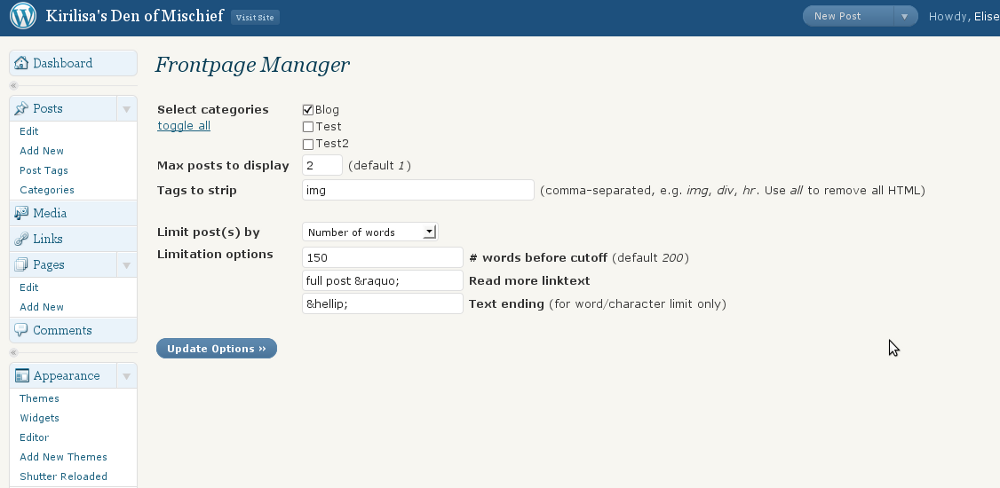
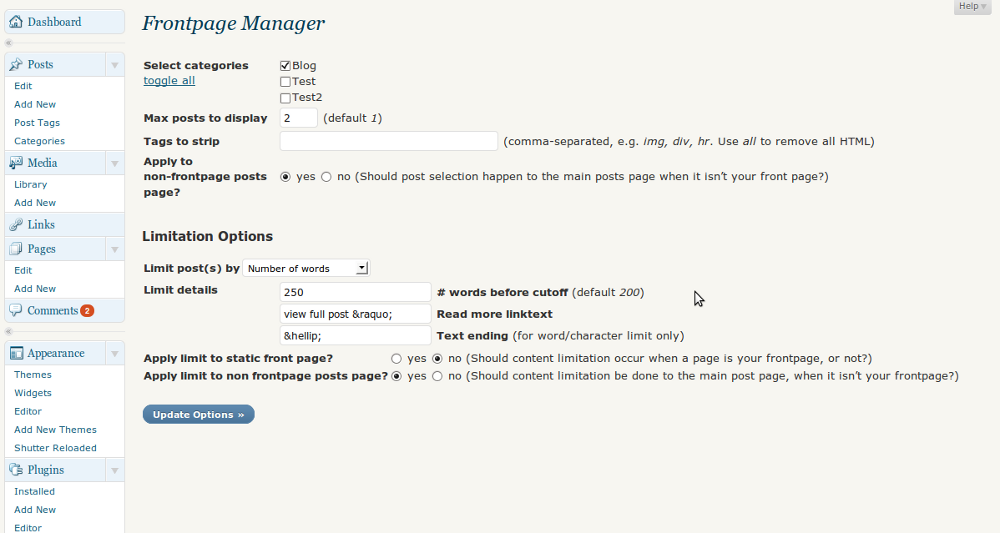
Upgrade to version 1.1
git-svn-id: https://plugins.svn.wordpress.org/frontpage-manager/trunk@240787 b8457f37-d9ea-0310-8a92-e5e31aec5664

diff --git a/fp-manager.php b/fp-manager.php
@@ -4,7 +4,7 @@
    Plugin URI: http://kirilisa.com/projects/frontpage-manager/
    Description: Frontpage manager lets you customize how frontpage posts appear in a number 
    of ways: limiting by category, number of posts, number of words/characters/paragraphs.   
-   Version: 1.0
+   Version: 1.1
    Author: Elise Bosse
    Author URI: http://kirilisa.com
 
@@ -40,6 +40,9 @@ if (!class_exists("FPManager")) {
       add_option("fpm_post_linktext", 'view full post &raquo;');
       add_option("fpm_post_ending", '');
       add_option("fpm_striptags", '');      
+      add_option("fpm_apply_nonfp", 1);      
+      add_option("fpm_static_limit", 0);      
+      add_option("fpm_nonfp_limit", 1);      
     }
 
     function deactivate() {
@@ -51,6 +54,9 @@ if (!class_exists("FPManager")) {
       delete_option("fpm_post_linktext");
       delete_option("fpm_post_ending");
       delete_option("fpm_striptags");      
+      delete_option("fpm_apply_nonfp");      
+      delete_option("fpm_static_limit");      
+      delete_option("fpm_nonfp_limit");      
     }
 
     function get_all_categories() {
@@ -78,7 +84,10 @@ if (!class_exists("FPManager")) {
 	$ending = utf8_encode(trim($_POST['fpm_post_ending']));
 	$linktext = utf8_encode(trim($_POST['fpm_post_linktext']));	
 	$striptags = utf8_encode(trim(strtolower($_POST['fpm_striptags'])));
-        
+	$apply_nonfp = intval(trim($_POST['fpm_apply_nonfp']));        
+	$static_limit = intval(trim($_POST['fpm_static_limit']));        
+	$nonfp_limit = intval(trim($_POST['fpm_nonfp_limit']));        
+
 	// default number
 	if ($number == '') {
 	  if ($cuttype == 'paragraph' || $cuttype == 'none') $number = '1';
@@ -95,22 +104,31 @@ if (!class_exists("FPManager")) {
 	$numposts = $numposts < 1 ? 1 : $numposts;
 
 	// make categories storable
-	foreach ($categories as $cat) {
-	  $cats .= trim($cat).",";
+	if (isset($categories) && !empty($categories)) {
+	  foreach ($categories as $cat) {
+	    $cats .= trim($cat).",";
+	  }
+	  $cats = trim($cats, ",");
+	  
+	  // store categories
+	  update_option("fpm_post_category", $cats);	
+	  
+	  // updated message
+	  echo "<div id=\"message\" class=\"updated fade\"><p><strong>Frontpage Manager options updated.</strong></p></div>";
+	} else {
+	  echo "<div id=\"message\" class=\"updated fade\"><p><strong>You must select at least 1 category.</strong></p></div>";
 	}
-	$cats = trim($cats, ",");
 
 	// update data in database
-	update_option("fpm_post_category", $cats);	
 	update_option("fpm_post_cuttype", $cuttype);	
 	update_option("fpm_post_numposts", $numposts);
 	update_option("fpm_post_number", $number);
 	update_option("fpm_post_linktext", $linktext);
 	update_option("fpm_post_ending", $ending);
 	update_option("fpm_striptags", $striptags);
-	
-	// updated message
-	echo "<div id=\"message\" class=\"updated fade\"><p><strong>Frontpage Manager options updated.</strong></p></div>";
+	update_option("fpm_apply_nonfp", $apply_nonfp);
+	update_option("fpm_static_limit", $static_limit);
+	update_option("fpm_nonfp_limit", $nonfp_limit);
       }
       
       $cats = FPManager::get_all_categories();
@@ -119,82 +137,98 @@ if (!class_exists("FPManager")) {
     }
 
 
-    function display($content) {
-      if (!is_front_page() || get_option('show_on_front') != 'posts') return $content;
-
+    // limit the posts, if necessary
+    function display($content) {      
       $striptags = get_option('fpm_striptags');
       $cuttype = get_option('fpm_post_cuttype');
       $linktext = get_option('fpm_post_linktext');
       $ending = get_option('fpm_post_ending');
       $truncate = get_option('fpm_post_number');
+      $static_limit = get_option('fpm_static_limit');
+      $nonfp_limit = get_option('fpm_nonfp_limit');
       $readon = TRUE;
+      $type = get_option('show_on_front');
 
-      if ($cuttype == 'none') return $content;
+      if ($cuttype == 'none') return $content;  // no limitation required    
 
-      if ($striptags != '') {
-	// make sure tags to strip are clean
-	$striptags = str_replace(array('<',' ','>'), '', $striptags);
-	$tags = explode(',', $striptags);
+      // these situations require limiting
+      if (($type == 'posts' && is_front_page()) || 
+	  ($type == 'page' && is_front_page() && $static_limit) || 
+	  ($type == 'page' && is_home() && $nonfp_limit)) {
+      
+	//if (($fp_only && !is_front_page()) || (!$fp_only && !is_home()) || $cuttype == 'none') return $content;
+	//if (!is_front_page() || get_option('show_on_front') != 'posts') return $content;
+	//if ($cuttype == 'none') return $content;
 
-	// strip the tags
-	foreach ($tags as $tag) {	  
-	  if ($tag == 'all') $content = strip_tags($content, '<p>');
-	  else $content = preg_replace('/<\/?'.$tag.'( [^>]+)?>/', '', $content, -1, $cnt);
-	}
-      }      
+	if ($striptags != '') {
+	  // make sure tags to strip are clean
+	  $striptags = str_replace(array('<',' ','>'), '', $striptags);
+	  $tags = explode(',', $striptags);
 
-      switch($cuttype) {
-      case "word":	
-	$tmp = explode(' ', $content);       	
-	$length = count($tmp);
-	if ($length > $truncate) {
-	  $final = implode(' ', array_slice($tmp, 0, $truncate));
-	  $final = FPManager::fix_html($final, $ending);
-	} else {
-	  $final = $content;
-	  $readon = FALSE;
-	}
-	break;
-
-      case "letter":
-	$length = strlen($content);
-	if ($length > $truncate) {
-	  $final = FPManager::fix_html(substr($content, 0, $truncate), $ending);
-	} else {
-	  $final = $content;
-	  $readon = FALSE;
-	}
-	break;
-
-      case "paragraph":
-	$final = "";
-	$idx = 0;
-
-	$tmp = explode('</p>', $content);
-
-	// clean array of whitespace/null values
-	$tmp = array_values(array_filter(array_map("trim", $tmp)));
-
-	$length = count($tmp);
-	if ($length > $truncate) {
-	  while ($idx < $truncate) {
-	    $final .= $tmp[$idx]."</p>";
-	    $idx++;
+	  // strip the tags
+	  foreach ($tags as $tag) {	  
+	    if ($tag == 'all') $content = strip_tags($content, '<p>');
+	    else $content = preg_replace('/<\/?'.$tag.'( [^>]+)?>/', '', $content, -1, $cnt);
 	  }
-	} else {
-	  $final = $content;
-	  $readon = FALSE;
-	}
-	break;
-      }
-            
-      if ($readon) {
-	$final .= "\r\n".'<div class="fpm_readon"><a href="' . get_permalink() . '" rel="nofollow">';
-	$final .= utf8_encode($linktext) . "</a></div>\r\n";
-      }
+	}      
 
-      return $final;
+	switch($cuttype) {
+	case "word":	
+	  $tmp = explode(' ', $content);       	
+	  $length = count($tmp);
+	  if ($length > $truncate) {
+	    $final = implode(' ', array_slice($tmp, 0, $truncate));
+	    $final = FPManager::fix_html($final, $ending);
+	  } else {
+	    $final = $content;
+	    $readon = FALSE;
+	  }
+	  break;
+
+	case "letter":
+	  $length = strlen($content);
+	  if ($length > $truncate) {
+	    $final = FPManager::fix_html(substr($content, 0, $truncate), $ending);
+	  } else {
+	    $final = $content;
+	    $readon = FALSE;
+	  }
+	  break;
+
+	case "paragraph":
+	  $final = "";
+	  $idx = 0;
+
+	  $tmp = explode('</p>', $content);
+
+	  // clean array of whitespace/null values
+	  $tmp = array_values(array_filter(array_map("trim", $tmp)));
+
+	  $length = count($tmp);
+	  if ($length > $truncate) {
+	    while ($idx < $truncate) {
+	      $final .= $tmp[$idx]."</p>";
+	      $idx++;
+	    }
+	  } else {
+	    $final = $content;
+	    $readon = FALSE;
+	  }
+	  break;
+	}
+            
+	if ($readon) {
+	  $final .= "\r\n".'<div class="fpm_readon"><a href="' . get_permalink() . '" rel="nofollow">';
+	  $final .= utf8_encode($linktext) . "</a></div>\r\n";
+	}
+
+	return $final;
+      } 
+
+      return $content;
     }
+
+
 
     function trim_val($val) {
       //return trim($val);
@@ -242,17 +276,27 @@ if (!class_exists("FPManager")) {
       global $wp_query;
 
       $type = get_option('show_on_front');
-      //$category = get_option('fpm_post_category');
       $categories = get_option("fpm_post_category"); 
       $numposts = intval(get_option('fpm_post_numposts'));
-      
-      if (is_front_page() && $type == 'posts') {
+      $apply_nonfp = get_option('fpm_apply_nonfp');
+
+      // these situations require alteration
+      //if (is_front_page() && $type == 'posts') {
+      if (($type == 'posts' && is_front_page()) || 
+	  ($type == 'page' && is_home() && $apply_nonfp)) {
+            
 	// limit categories shown
 	if (preg_match('/^([1-9]{1}[0-9]*,?)+$/', $categories)) $wp_query->query_vars['cat'] = $categories;
-	//print_r($wp_query->query_vars['cat']); exit;
-	// limit number of posts showd
+
+	// limit number of posts shown
 	$wp_query->query_vars['showposts'] = $numposts;
       }
+    }
+
+    function set_title() {
+      global $wp_query;
+      $wp_query->query_vars['cat'] = "";
+      $wp_query->query_vars['category_in'] = Array();
     }
 
   }
@@ -265,8 +309,9 @@ if (class_exists("FPManager")) {
 
 // actions/filters
 if (isset($fpmanager)) {
-  add_filter('pre_get_posts', array('FPManager', 'alter_query'));
-  add_filter('the_content', array('FPManager', 'display'));
+  add_filter('pre_get_posts', array('FPManager', 'alter_query')); // deal with which posts to show
+  add_filter('the_content', array('FPManager', 'display')); // deal with how much of each post to show
+  add_action('get_header', array('FPManager', 'set_title')); // get rid of title category if set
 
   // administrative options
   add_action('admin_menu', array('FPManager', 'add_admin_page'));

diff --git a/admin_page.php b/admin_page.php
@@ -9,6 +9,18 @@ $input_number = get_option("fpm_post_number");
 $input_linktext = htmlspecialchars(get_option("fpm_post_linktext"));
 $input_ending = htmlspecialchars(get_option("fpm_post_ending"));
 $striptags = htmlspecialchars(get_option("fpm_striptags"));
+$apply_nonfp = htmlspecialchars(get_option("fpm_apply_nonfp"));
+$static_limit = htmlspecialchars(get_option("fpm_static_limit"));
+$nonfp_limit = htmlspecialchars(get_option("fpm_nonfp_limit"));
+
+$apply_nonfp_yes = $apply_nonfp == 1 ? 'checked ': '';
+$apply_nonfp_no = $apply_nonfp == 0 ? 'checked ': '';
+
+$static_limit_yes = $static_limit == 1 ? 'checked ': '';
+$static_limit_no = $static_limit == 0 ? 'checked ': '';
+
+$nonfp_limit_yes = $nonfp_limit == 1 ? 'checked ': '';
+$nonfp_limit_no = $nonfp_limit == 0 ? 'checked ': '';
 
 $letter_sel = $limitpostby == "letter" ? 'selected' : '';
 $word_sel = $limitpostby == "word" ? 'selected' : '';
@@ -75,8 +87,20 @@ foreach ($cats as $cat) {
 (comma-separated, e.g. <em>img, div, hr</em>. Use <em>all</em> to remove all HTML)</td>
 </tr>
 
-<tr><td colspan="2">&nbsp;</td></tr>
+<tr>
+<td><strong>Apply to non-frontpage posts page? </strong></td>
+<td>
+<input type="radio" name="fpm_apply_nonfp" value="1" <?php echo $apply_nonfp_yes; ?>/> yes 
+<input type="radio" name="fpm_apply_nonfp" value="0" <?php echo $apply_nonfp_no; ?>/> no 
+(Should post selection happen to the main posts page when it isn&rsquo;t your front page?)
+</td>
+</tr>
+</table>
 
+<br />
+<h3>Limitation Options</h3>
+
+<table>
 <tr>
 <td><strong>Limit post(s) by</strong></td> 
 
@@ -94,7 +118,7 @@ foreach ($cats as $cat) {
 
 <table id="truncate" <?php echo $option_display; ?>>
 <tr>
-<td width="160" valign="top"><strong>Limitation options</strong></td>
+<td width="160" valign="top"><strong>Limit details</strong></td>
 
 <td>
 <input name="fpm_post_number" type="text" value="<?php echo $input_number; ?>" /> 
@@ -105,6 +129,27 @@ foreach ($cats as $cat) {
   
   <input name="fpm_post_ending" type="text" value="<?php echo $input_ending; ?>" /> 
   <strong>Text ending</strong> (for word/character limit only)<br />
+</td>
+</tr>
+</table>
+
+<table>
+
+<tr>
+<td><strong>Apply limit to static front page? </strong></td>
+<td>
+<input type="radio" name="fpm_static_limit" value="1" <?php echo $static_limit_yes; ?>/> yes 
+<input type="radio" name="fpm_static_limit" value="0" <?php echo $static_limit_no; ?>/> no 
+(Should content limitation occur when a page is your frontpage, or not?)
+</td>
+</tr>
+
+<tr>
+<td><strong>Apply limit to non frontpage posts page? </strong></td>
+<td>
+<input type="radio" name="fpm_nonfp_limit" value="1" <?php echo $nonfp_limit_yes; ?>/> yes 
+<input type="radio" name="fpm_nonfp_limit" value="0" <?php echo $nonfp_limit_no; ?>/> no 
+(Should content limitation be done to the main post page, when it isn&rsquo;t your frontpage?)
 </td>
 </tr>
 </table>
